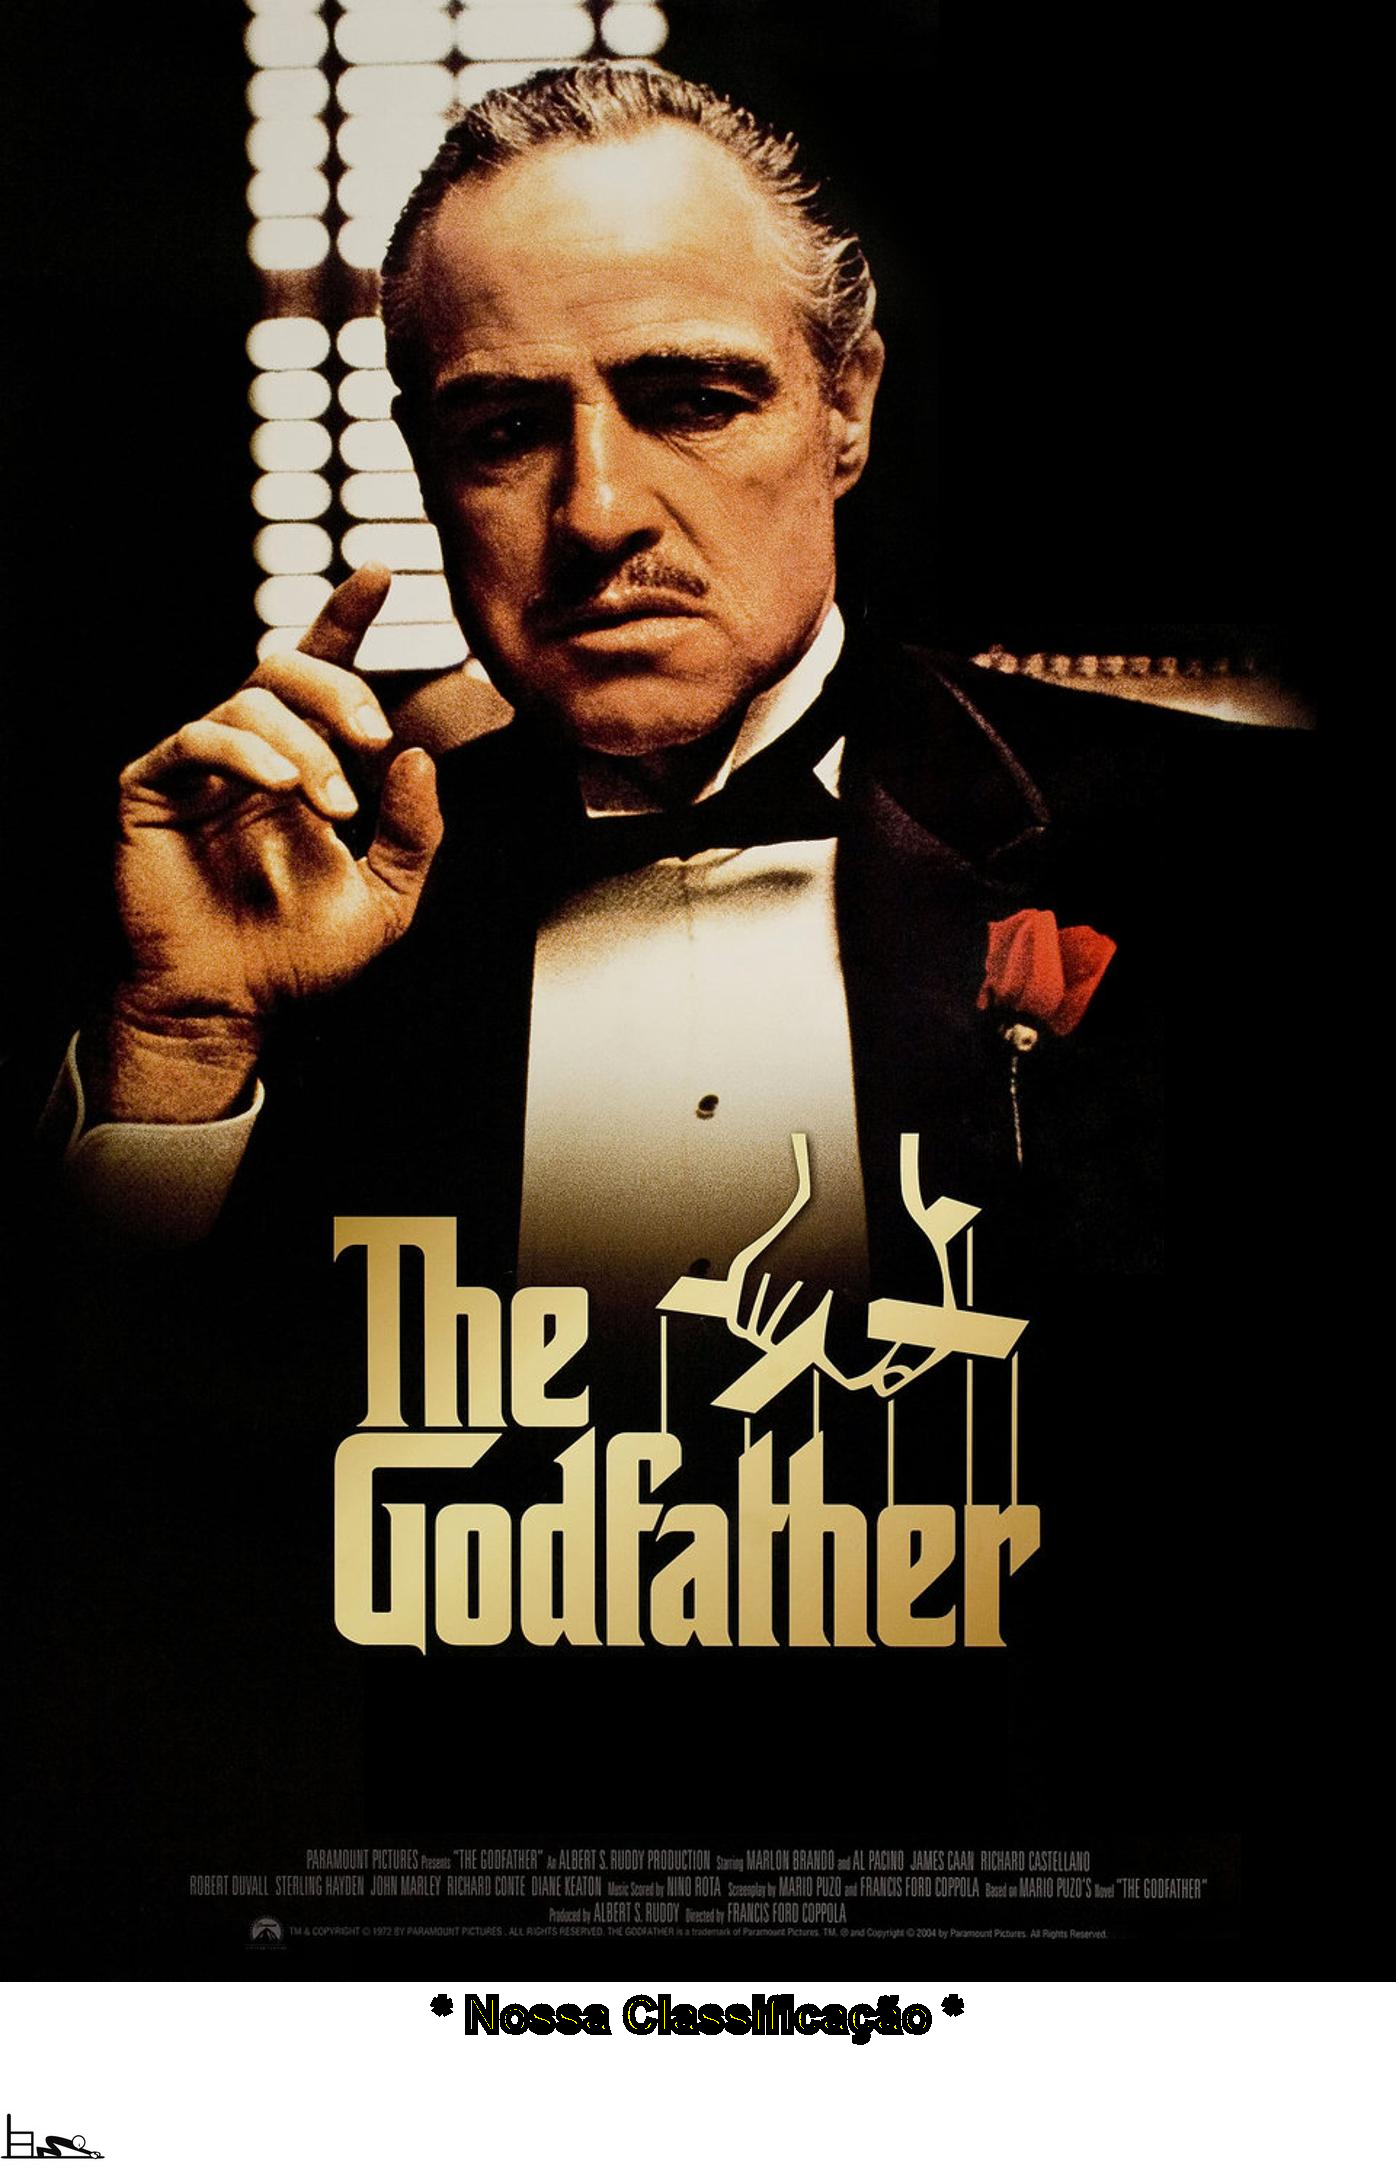
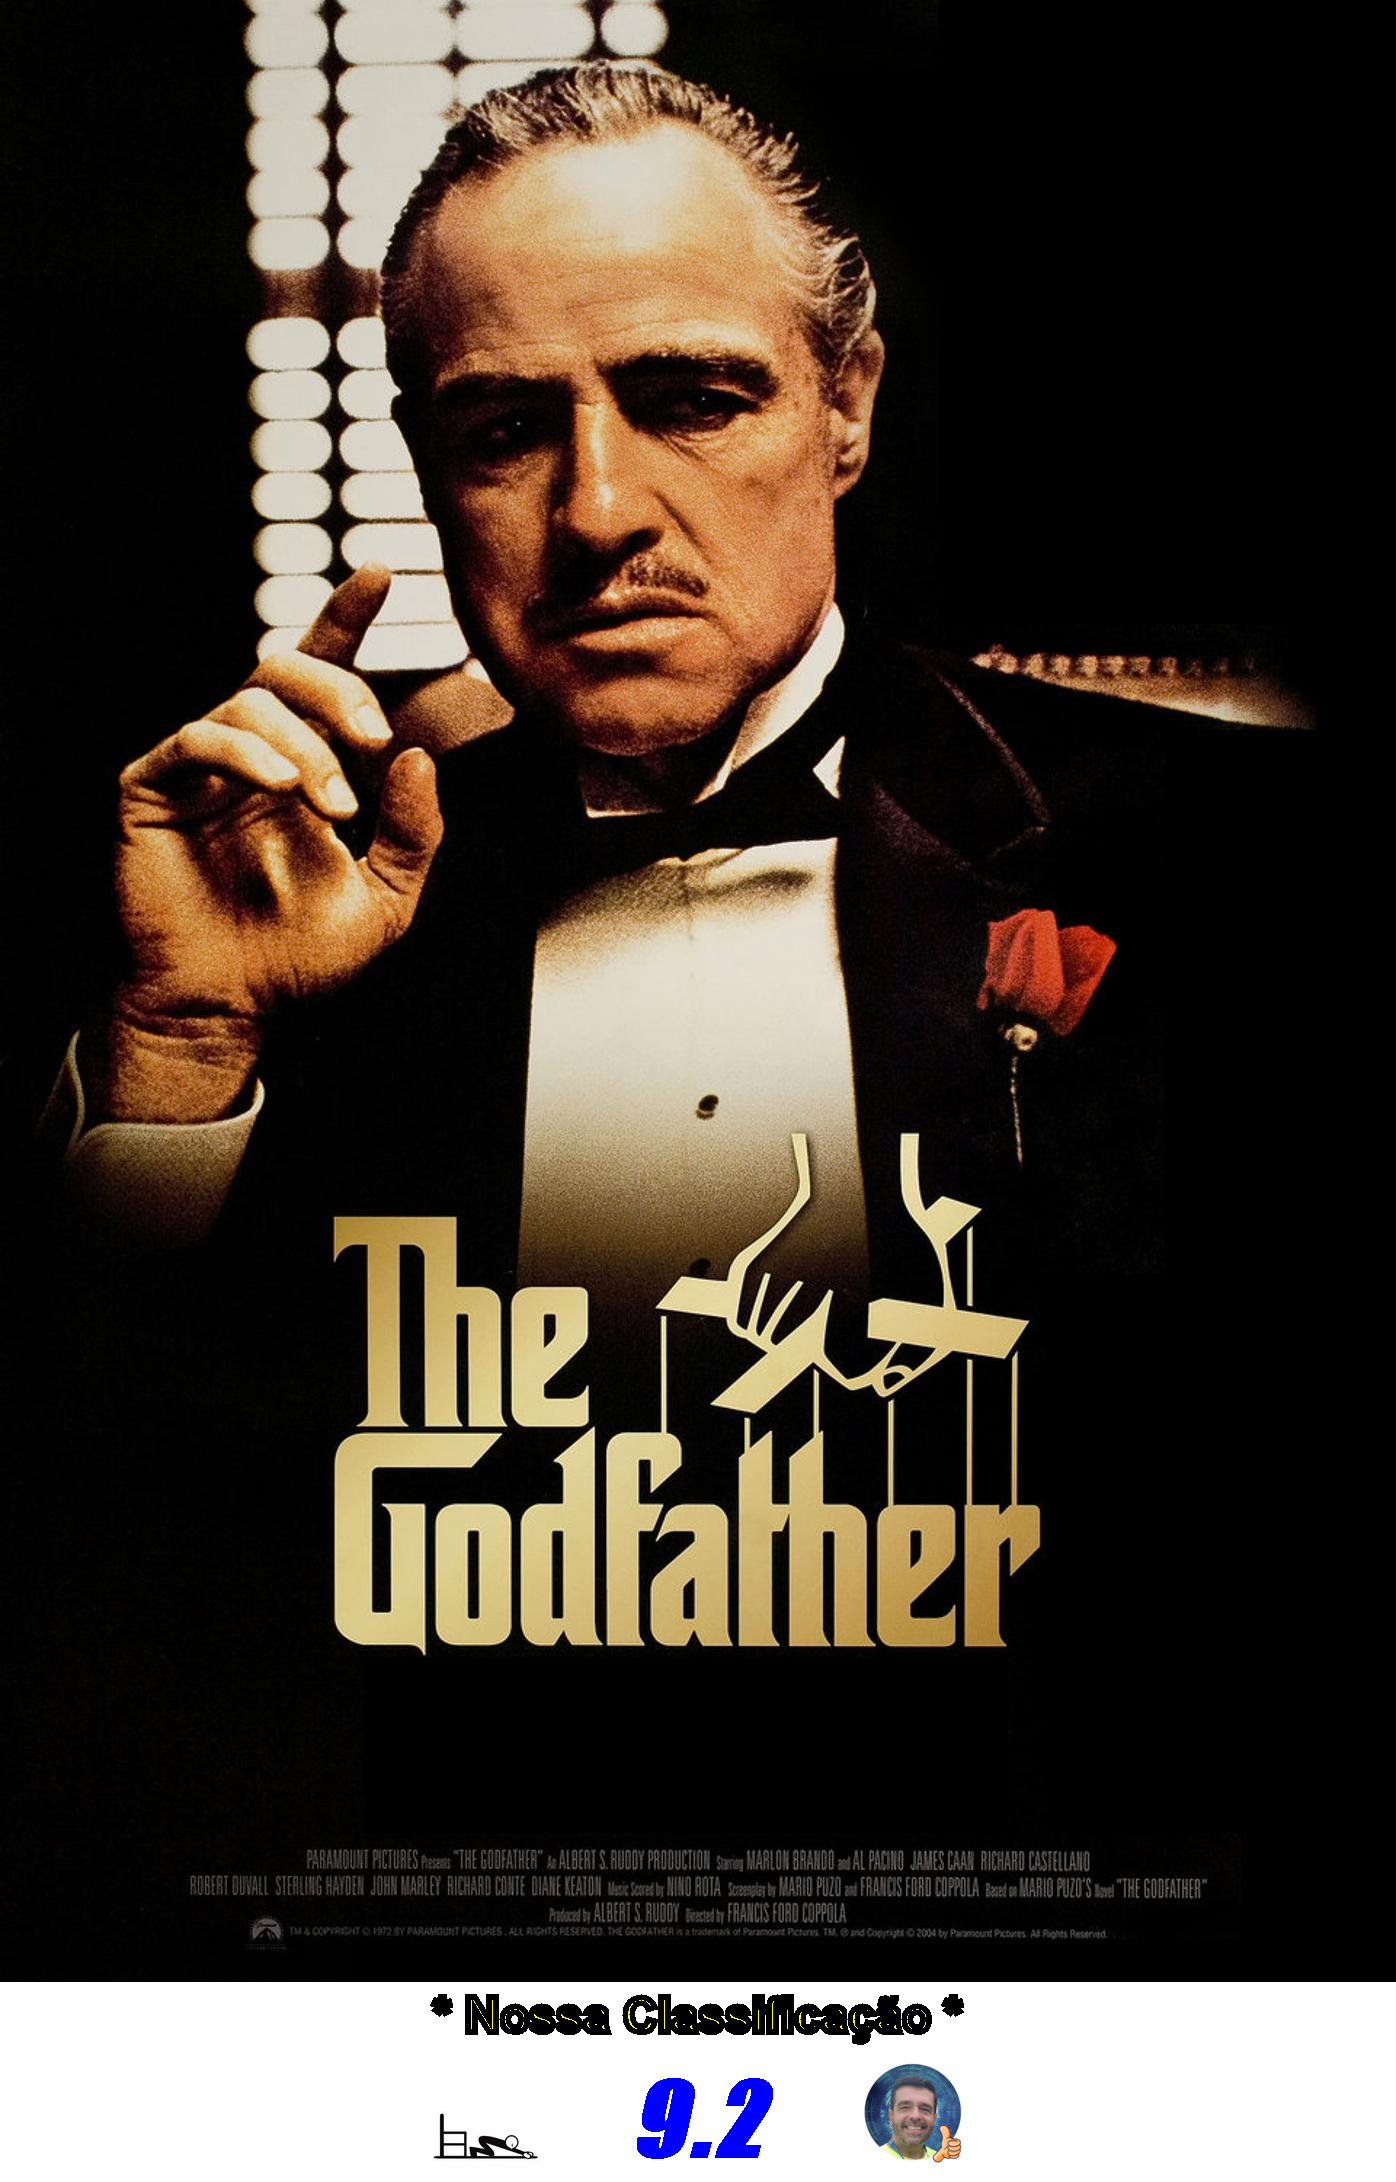
update stickers factory

diff --git a/alura-stickers/src/FactoryStickers.java b/alura-stickers/src/FactoryStickers.java
@@ -37,16 +37,12 @@ public class FactoryStickers {
         //configurar imagem de classificação
         InputStream inputClassificacao = new FileInputStream(new File(imgNota));
         BufferedImage imgOriginalNota = ImageIO.read(inputClassificacao);
-        int larguraNota = imgOriginalNota.getWidth();
-        int alturaNota = imgOriginalNota.getHeight();
-        BufferedImage imgModificadaNota = new BufferedImage(larguraNota, alturaNota, BufferedImage.TRANSLUCENT);
 
         //copiar a imagens originais (poster e nota) para a nova imagem (em memória)
         Graphics2D graphics = (Graphics2D) imgModificada.getGraphics();
         graphics.drawImage(imgOriginal, 0, 0, null);
-        graphics.drawImage(imgOriginalNota,0, novaAltura - 120, null);
 
-        //configurar a fonte
+        //configurar a fonte título
         var fonte = new Font("Comic Sans",Font.BOLD,48);
         graphics.setColor(Color.yellow);
         graphics.setFont(fonte);
@@ -59,6 +55,38 @@ public class FactoryStickers {
         int positionX = (largura - larguraTexto)/2;
         int positionY = novaAltura - 150;
         graphics.drawString(texto, positionX, positionY);
+
+        /*
+        *** Configuração e inserção da nota do filme
+        */
+        //configurar fonte nota
+        var fonteNota = new Font("Impact", Font.BOLD | Font.ITALIC, 100);
+        graphics.setColor(Color.blue);
+        graphics.setFont(fonteNota);
+
+        //escrever nota do filme
+        String notaFilme = String.valueOf(nota);
+        FontMetrics fontMetricsNota = graphics.getFontMetrics();
+        Rectangle2D rectangleNota = fontMetricsNota.getStringBounds(notaFilme, graphics);
+        int larguraNota = (int) rectangleNota.getWidth();
+        int alturaNota = (int) rectangleNota.getHeight();
+        int positionNotaX = (largura - larguraNota)/2;
+        int positionNotaY = novaAltura - alturaNota/5;
+
+        /*
+         *** Configuração e inserção da foto
+         */
+        InputStream inputFoto = new FileInputStream(new File("img/daniel_ok.png"));
+        BufferedImage imgOriginalFoto = ImageIO.read(inputFoto);
+
+        //desenhar imagem da classificação
+        graphics.drawImage(imgOriginalNota,positionX, novaAltura - 120, null);
+
+        //escrever a nota do filme
+        graphics.drawString(notaFilme,positionNotaX, positionNotaY);
+
+        //desenhar a foto
+        graphics.drawImage(imgOriginalFoto,positionX + larguraTexto - 100, novaAltura - 120, null);
 
         //criar borda no texto
         FontRenderContext fontRenderContext = graphics.getFontRenderContext();
@@ -78,7 +106,6 @@ public class FactoryStickers {
 
         //salvar a nova imagem em um novo arquivo
         ImageIO.write(imgModificada, "png", new File(nomeArquivo));
-        //ImageIO.write(imgModificadaNota,"png",new File(nomeArquivo));
 
     }
 
